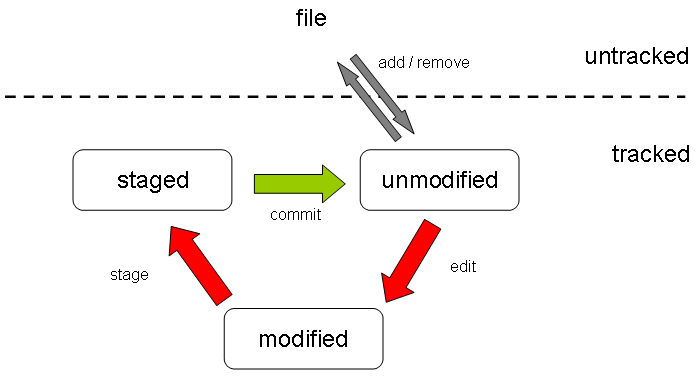
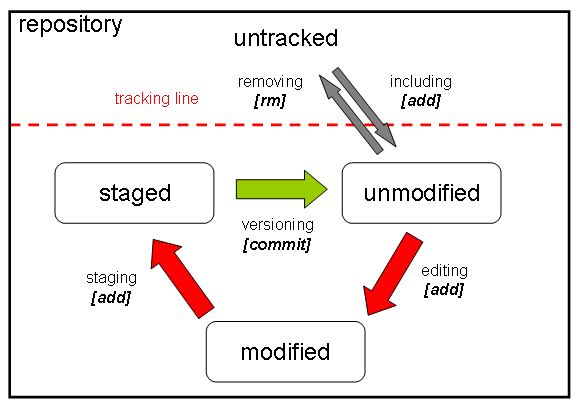
new figure

Changed region(s): [[0.0, 0.0, 0.9931, 0.9842], [0.6207, 0.8105, 0.6517, 0.9263]]

diff --git a/git_how_to.html b/git_how_to.html
@@ -63,11 +63,15 @@ img {
 
 <div id="lca-of-a-git-file" class="section level1">
 <h1>LCA of a GIT file</h1>
-<div id="a-picture" class="section level3">
-<h3>a picture</h3>
 <hr />
[2 lines of base64/hex data omitted]
 <hr />
+<div id="configure-user-info-for-all-local-repositories" class="section level2">
+<h2>configure user info for all local repositories</h2>
+<p>set name to be attached to commit transactions</p>
+<pre><code>git config --global user.name &quot;my_name&quot;</code></pre>
+<p>set email to be attached to commit transactions</p>
+<pre><code>git config --global user.email &quot;my_email&quot;</code></pre>
 </div>
 <div id="initialize-a-new-repository" class="section level2">
 <h2>initialize a new repository</h2>
@@ -103,27 +107,33 @@ img {
 </div>
 <div id="track-add-new-files" class="section level2">
 <h2>track (add) new files</h2>
+<p>snapshot the new file for next versioning (commit)</p>
 <pre><code>git add a_new_filename</code></pre>
 </div>
 <div id="stage-add-modified-files" class="section level2">
 <h2>stage (add) modified files</h2>
+<p>snapshot the edited file for next history versioning (i.e. commit)</p>
 <pre><code>git add a_modified_filename</code></pre>
 </div>
 <div id="commit-the-changes" class="section level2">
 <h2>commit the changes</h2>
+<p>record file snapshot permanently in version history</p>
 <pre><code>git commit -m &quot;here specify a short message about changes&quot;</code></pre>
 <p>the <em>commit</em> records the snapshot set up in the staging process</p>
 </div>
 <div id="add-a-remote-repository-from-command-line" class="section level2">
 <h2>add a remote repository from command line</h2>
+<p>define a remote repository (namely: origin) at a specified url</p>
 <pre><code>git remote add origin git://github.com/some_owner/some_repository.git</code></pre>
 </div>
 <div id="push-to-remotes" class="section level2">
 <h2>push to remotes</h2>
+<p>upload local commit to remote repository</p>
 <pre><code>git push -u origin master</code></pre>
 </div>
 <div id="check-remote-repository" class="section level2">
 <h2>check remote repository</h2>
+<p>verify the name and address of remote repository</p>
 <pre><code>git remote -v</code></pre>
 </div>
 <div id="relocate-and-remove-tracked-files" class="section level2">
